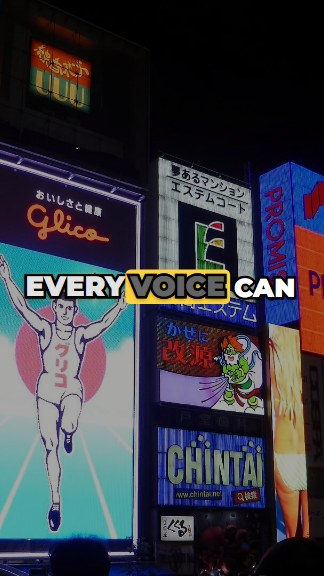
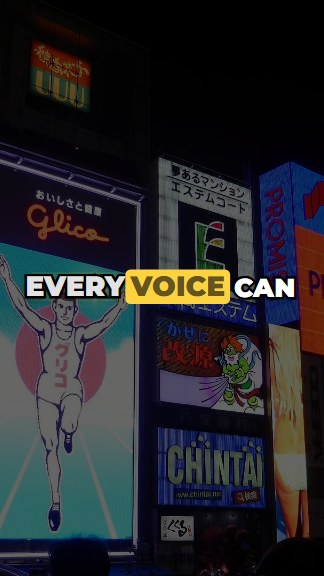
Gallery in several languages, readable boxed captions, README tone
- Preset gallery shows Hindi, English (with Spanish), Arabic and Japanese
- Boxed highlight drops the text outline so dark-on-yellow words stay legible
- README rewritten in a precise, professional voice; agent-first flow kept

diff --git a/scripts/docs-images.ts b/scripts/docs-images.ts
@@ -23,7 +23,7 @@ const OUT = path.join(ROOT, "docs", "images");
 /** How much to darken each photo so lyrics stay readable. */
 const DIM: Record<string, number> = {
   neon: 0.5,
-  "social-pop": 0.35,
+  "social-pop": 0.6,
   kinetic: 0.35,
   chalk: 0.15,
   "classic-karaoke": 0.3,
@@ -31,6 +31,23 @@ const DIM: Record<string, number> = {
 };
 
 type Project = Record<string, unknown>;
+
+/**
+ * Which moment of the demo each preset is shown at, so the gallery shows
+ * several languages: English 2.4-5.4 s, Hindi 6.6-9.5 s, Arabic 10.7-13.7 s,
+ * Japanese 14.9-17.8 s (each with a translation underneath).
+ */
+const MOMENT: Record<string, number> = {
+  "golden-sparkle": 7.6,
+  chalk: 3.9,
+  "classic-karaoke": 12.2,
+  "social-pop": 3.3,
+  kinetic: 17.6,
+  "scroll-focus": 7.6,
+  "minimal-subtitles": 12.0,
+  cinematic: 16.6,
+  neon: 4.1,
+};
 
 async function shot(
   name: string,
@@ -66,14 +83,15 @@ async function shot(
   console.log(`rendered ${name}`);
 }
 
-async function presets() {
+async function presets(only?: string) {
   const images: string[] = [];
   for (const name of PRESET_NAMES) {
     const out = path.join(OUT, "presets", `${name}.jpg`);
-    await shot(`preset-${name}`, name, (p) => (p.style = { preset: name }), [
-      { time: 7.4, out },
-    ]);
     images.push(out);
+    if (only && only !== name) continue;
+    await shot(`preset-${name}`, name, (p) => (p.style = { preset: name }), [
+      { time: MOMENT[name] ?? 7.4, out },
+    ]);
   }
   await py(
     ["sheet", "--out", path.join(OUT, "presets.jpg"), ...images],
@@ -222,6 +240,10 @@ async function main() {
   if (which === "all" || which === "presets") await presets();
   if (which === "all" || which === "features") await features();
   if (which === "credits") await features("credits");
+  if (which === "preset") {
+    await presets(process.argv[3]);
+    await features(process.argv[4]);
+  }
   console.log(`Images written to ${OUT}`);
 }
 

diff --git a/src/render/Word.tsx b/src/render/Word.tsx
@@ -148,6 +148,17 @@ export const WordView: React.FC<Props> = ({
           paintOrder: "stroke fill",
         }
       : {};
+  // Inside the highlight box the dark letters need no outline (it would blur them together),
+  // so the outline and shadow fade out while the box is shown.
+  const fillStroke: React.CSSProperties =
+    ts.strokeWidth > 0 && boxA > 0
+      ? boxA >= 0.99
+        ? {}
+        : {
+            WebkitTextStroke: `${ts.strokeWidth * 2 * scale * (1 - boxA)}px ${ts.strokeColor}`,
+            paintOrder: "stroke fill",
+          }
+      : strokeCss;
   const glyphs = letterMode ? graphemes(word.text, lang) : null;
   const renderText = () => {
     if (!glyphs) return word.text;
@@ -234,6 +245,7 @@ export const WordView: React.FC<Props> = ({
           position: "relative",
           zIndex: 1,
           color: maskColor ?? ts.color,
+          opacity: !maskColor && boxA > 0 ? 1 - boxA : undefined,
           textShadow: maskColor || ts.shadow === "none" ? undefined : ts.shadow,
           ...(maskColor && ts.strokeWidth > 0
             ? {
@@ -254,12 +266,15 @@ export const WordView: React.FC<Props> = ({
             padding: `${PAD}em`,
             zIndex: 2,
             color: fillColor,
-            textShadow: ts.sungShadow === "none" ? undefined : ts.sungShadow,
+            textShadow:
+              ts.sungShadow === "none" || boxA > 0.5
+                ? undefined
+                : ts.sungShadow,
             opacity: fillOpacity,
             maskImage: mask,
             WebkitMaskImage: mask,
             whiteSpace: "nowrap",
-            ...strokeCss,
+            ...fillStroke,
           }}
         >
           {renderText()}

diff --git a/README.md b/README.md
@@ -2,7 +2,7 @@
 
 # motion-lyrics
 
-**Beautiful lyric videos from any video and its lyrics, in any language. Just ask your AI assistant.**
+**Word-synced, multilingual lyric videos from any video and its lyrics, driven by your AI coding agent and rendered with Remotion.**
 
 [![CI](https://github.com/rohanvijaykumar/motion-lyrics/actions/workflows/ci.yml/badge.svg)](https://github.com/rohanvijaykumar/motion-lyrics/actions/workflows/ci.yml)
 [![License: MIT](https://img.shields.io/badge/license-MIT-blue.svg)](LICENSE)
@@ -12,19 +12,20 @@
 
 </div>
 
-You do not need to be technical. You give your AI assistant (Claude, Codex, Cursor...) a link
-to this page, your video and your lyrics. It sets everything up, times every word to the
-singing, checks every line, and hands you a finished video. To change anything, you just tell
-it what you want in your own words.
+motion-lyrics isolates the vocal, aligns every lyric word to the singing, checks every frame,
+and renders finished video in 1080p or 4K, wide or vertical. It is designed to be operated by
+an AI coding agent such as Claude Code, Codex or Cursor: point the agent at this repository,
+describe the video you want, and it handles installation, rendering, quality checks and
+revisions. Every step can also be run directly from the command line.
 
 ---
 
-## How to start
+## Quick start
 
-**1. Open your AI assistant** that can work on your computer, for example
-[Claude Code](https://claude.com/claude-code) (the desktop app or terminal), Codex, or Cursor.
+**1. Open an AI coding agent** that can run commands on your machine:
+[Claude Code](https://claude.com/claude-code) (desktop app or CLI), Codex, Cursor or similar.
 
-**2. Paste this message**, with your own file names:
+**2. Give it the repository and your material:**
 
 ```text
 Set up https://github.com/rohanvijaykumar/motion-lyrics and make a lyric video
@@ -33,18 +34,19 @@ from my video "my-song.mp4" with these lyrics:
 (paste the lyrics here, or say where the lyrics file is)
 ```
 
-**3. Answer its three questions.** It asks which **style** you like (the pictures above), where the
-lyrics should **sit** (bottom, centre or top), and whether lyrics may **move away from faces**.
+**3. Answer three questions:** the **style** (gallery above), the lyric **position** (bottom,
+centre or top, fixed for the whole video), and whether lyrics may **move away from faces**.
 
-That's it. The first time, it downloads what it needs (about 3 GB, once) and installs any
-missing programs for you. A three-minute song then takes roughly 30 to 60 minutes on a normal
-laptop. It tells you when your video is ready and where to find it.
+The agent follows [AGENTS.md](AGENTS.md): it installs missing prerequisites (Node.js, uv,
+Python), downloads the models once (about 3 GB), runs the pipeline, reviews the timing and QC
+reports, and tells you where the finished file is. A three-minute song takes roughly 30 to 60
+minutes on a typical laptop CPU, most of it rendering.
 
 ---
 
-## Then just ask for changes
+## Iterate in plain language
 
-Talk to your assistant like you would to a video editor. For example:
+Revisions are requests to the agent, the same way you would brief an editor:
 
 > *"Make the lyrics bigger."* · *"Use the Montserrat font."* · *"Here is our brand font file, use it."*
 > *"Make the sung words gold."* · *"Put the lyrics at the top."* · *"Try the neon style."*
@@ -52,70 +54,78 @@ Talk to your assistant like you would to a video editor. For example:
 > *"Add the English translation under each line."* · *"Make a vertical version for Instagram Reels."*
 > *"Make a 4K version."* · *"The second line comes in a little late."* · *"Perfect, I'm done."*
 
-When you say you are done, it keeps your final video and tidies up the working files it no
-longer needs.
+Each change is validated, re-checked by QC and re-rendered. When you approve the result, the
+agent records the approval and removes intermediate files, keeping the final video and reports.
 
 ---
 
-## What it can do
+## Capabilities
 
-### Lyrics that light up as they are sung
+### Word-level karaoke highlighting
 
-Every word is timed to the singer and lights up as it is sung, in nine styles (gallery at the
-top) or your own fonts and colours.
+Every word is aligned to the isolated vocal and highlighted as it is sung: a wipe, a colour
+change or a boxed word, with optional glints, sparkles, beat pulses and entrance and exit
+animations. Nine presets ship with the project (gallery above); fonts, colours, sizes and
+effects are all configurable, and custom presets can be saved and reused.
 
-### Translations under the lyrics
+### Translations and romanization
 
-Show a translation (or the pronunciation) under each sung line. It lights up along with the
-line. Right-to-left languages like Arabic and Hebrew read and highlight right to left.
+A translation or pronunciation line can sit under each sung line and fills in step with it.
+Right-to-left scripts (Arabic, Hebrew) are laid out and highlighted right to left; joined and
+stacked scripts (Arabic, Devanagari, Tamil) keep correct shaping.
 
 ![Translations](docs/images/features/translations.jpg)
 
 ### Title cards and end credits
 
-Open with the song title and artist; close with credits.
+Opening titles with artist, and closing credits. The final lyric screen clears before the
+credits begin.
 
 | Title card | Credits |
 | --- | --- |
 | ![Title card](docs/images/features/title.jpg) | ![Credits](docs/images/features/credits.jpg) |
 
-### Names, logos and section labels
+### Lower thirds, logos and section labels
 
-A name card for the singer or choir, your logo in a corner, and labels such as *Verse* or
-*Chorus* as each part begins. Name cards automatically stay clear of the lyrics.
+Name cards for performers, a logo or watermark, and *Verse* / *Chorus* labels at section
+starts. Lower thirds reposition automatically so they never collide with the lyrics. Lottie
+animations and free text are also supported ([graphics reference](docs/graphics.md)).
 
 ![Name card, logo and section label](docs/images/features/lower-third-logo.jpg)
 
-### Subtitles and social-media captions
+### Subtitles and short-form captions
 
-Prefer something quieter? Use simple subtitles. Making a Reel, Short or TikTok? Big captions a
-few words at a time, with the sung word boxed.
+From understated subtitles on a soft band to short-form captions a few words at a time with
+the sung word boxed, sized for vertical video.
 
 | Subtitles | Vertical captions |
 | --- | --- |
 | ![Subtitles](docs/images/features/subtitles.jpg) | ![Captions](docs/images/features/captions-vertical.jpg) |
 
-### Wide and vertical, 1080p and 4K
+### 1080p and 4K, 16:9 and 9:16
 
-One project gives you every size: wide 16:9 for YouTube and vertical 9:16 for phones, in
-1080p or 4K. For vertical versions the picture follows the people in the shot, and the lyrics
-are laid out fresh for the tall frame.
+Any project renders to wide and vertical at 1080p or 4K. The layout is recomputed for each
+frame shape; text is drawn at native resolution; vertical crops follow the faces in shot, or
+the full picture can sit over a blurred fill.
 
 ![Wide and vertical](docs/images/features/formats.jpg)
 
-### Any language
+### Multilingual by design
 
-Hindi, Arabic, Japanese, Chinese, Korean, Tamil, Thai, Spanish, French, Russian, Hebrew and
-many more, with the right fonts chosen automatically. Timing works in over 1,100 languages.
+Word segmentation (including Chinese, Japanese and Thai, which use no spaces), per-script font
+selection with Noto fallbacks, and forced alignment covering more than 1,100 languages through
+romanization. See [docs/languages.md](docs/languages.md).
 
-### It checks its own work
+### Quality control
 
-- **Timing.** It double-checks the timing of every line with a second listening model and tells you
-  (and your assistant) which lines, if any, deserve a second look.
-- **Every line on screen.** Before each video is made, it looks at every lyric line: is it on
-  screen, not cut off, readable against the picture, big enough, and in the right font? It fixes
-  problems itself (without moving your lyrics) and checks again.
-- **The final file.** It confirms the finished video matches what was checked.
+- **Timing review.** A second recognition model cross-checks the alignment; lines likely to be
+  off are flagged with spectrogram strips. On a hand-timed benchmark, 98% of mistimed words fall
+  in a flagged line ([accuracy](docs/pipeline.md#accuracy)).
+- **Visual QC.** Before each render, a frame of every lyric line is checked in every export
+  format for safe-area violations, clipping, collisions, contrast, size and missing glyphs.
+  Failures are fixed without moving the lyrics and re-checked.
+- **Output verification.** Frames from the finished file are compared with the frames QC
+  approved.
 
 ---
 
@@ -133,58 +143,58 @@ many more, with the right fonts chosen automatically. Timing works in over 1,100
 | **cinematic** | Elegant serif lettering with a soft glow | Ballads, film |
 | **neon** | Words switch on with a neon glow | Night, dance, electronic |
 
-You can also ask for your own style ("our brand colours and font") and reuse it for every video.
+Custom styles (brand fonts and colours, for example) can be saved as presets and reused across projects.
 
 ---
 
-## Questions
+## FAQ
 
 <details>
-<summary><b>Which AI assistants work?</b></summary>
+<summary><b>Which agents are supported?</b></summary>
 
-Any assistant that can run commands on your computer: Claude Code (desktop app or terminal),
-OpenAI Codex, Cursor, Gemini CLI and similar. Chat-only assistants in a browser cannot install
-software, so they cannot do this.
+Any agent that can run shell commands on your machine: Claude Code (desktop app or CLI), OpenAI
+Codex, Cursor, Gemini CLI and similar. Browser-only chat assistants cannot install software or
+render video. Claude Code also loads the bundled `/motion-lyrics` skill.
 </details>
 
 <details>
-<summary><b>Does it cost anything?</b></summary>
+<summary><b>Licensing and cost</b></summary>
 
-motion-lyrics is free. Everything runs on your own computer. You only need your AI assistant's
-own plan. Large companies (more than 3 people, for-profit) need a
-[Remotion license](https://www.remotion.dev/license) to make videos; individuals, non-profits
-and small teams do not.
+motion-lyrics is MIT licensed and runs locally. Remotion is free for individuals, non-profits
+and companies of up to three people; larger for-profit companies need a
+[Remotion company license](https://www.remotion.dev/license). The MMS alignment model is
+CC BY-NC 4.0 (non-commercial); see [THIRD_PARTY.md](THIRD_PARTY.md).
 </details>
 
 <details>
-<summary><b>What gets downloaded, and how much space does it need?</b></summary>
+<summary><b>Downloads and disk space</b></summary>
 
-About 3 GB once: the model that times each word (1.2 GB), the speech-recognition model that
-double-checks it (about 1.5 GB), a model that separates the singer from the music (80 MB), and
-the browser that draws the frames (130 MB). Each video project needs some extra space while
-it is being made; approving a video frees most of it.
+About 3 GB, once: MMS forced aligner (1.2 GB), Whisper `medium` (about 1.5 GB), Demucs vocal
+separation (80 MB), the headless Chrome used for rendering (130 MB) and a face detector. Projects
+use additional space for intermediate audio and frames; approval removes it.
 </details>
 
 <details>
-<summary><b>Is my video uploaded anywhere?</b></summary>
+<summary><b>Privacy</b></summary>
 
-No. Your video, lyrics and finished files stay on your computer. Fonts are fetched from Google
-Fonts while drawing, and models are downloaded once during setup.
+Nothing is uploaded. Media, lyrics and renders stay on your machine. Network access is used
+for the one-time model download and for fetching Google Fonts at render time.
 </details>
 
 <details>
-<summary><b>What if a lyric is slightly early or late?</b></summary>
+<summary><b>Correcting timing</b></summary>
 
-Tell your assistant, for example "the line 'every step is new' starts too early". It looks at
-a picture of the singing to find the exact moment, fixes it and makes the video again.
+Tell the agent which line is off ("'every step is new' comes in early"). It inspects the
+spectrogram strip for that line, adjusts and locks the timing, and re-renders. Locked lines are
+preserved if alignment is re-run.
 </details>
 
 <details>
-<summary><b>I want to do it myself, without an assistant</b></summary>
+<summary><b>Running it without an agent</b></summary>
 
-Everything works by hand too. Start with [docs/cli.md](docs/cli.md) (setup and every command),
-then [docs/lyrics-format.md](docs/lyrics-format.md), [docs/styles.md](docs/styles.md) and
-[docs/graphics.md](docs/graphics.md).
+Every step is a single command: [docs/cli.md](docs/cli.md) covers setup and the full CLI;
+[docs/lyrics-format.md](docs/lyrics-format.md), [docs/styles.md](docs/styles.md) and
+[docs/graphics.md](docs/graphics.md) cover configuration.
 </details>
 
 ---
